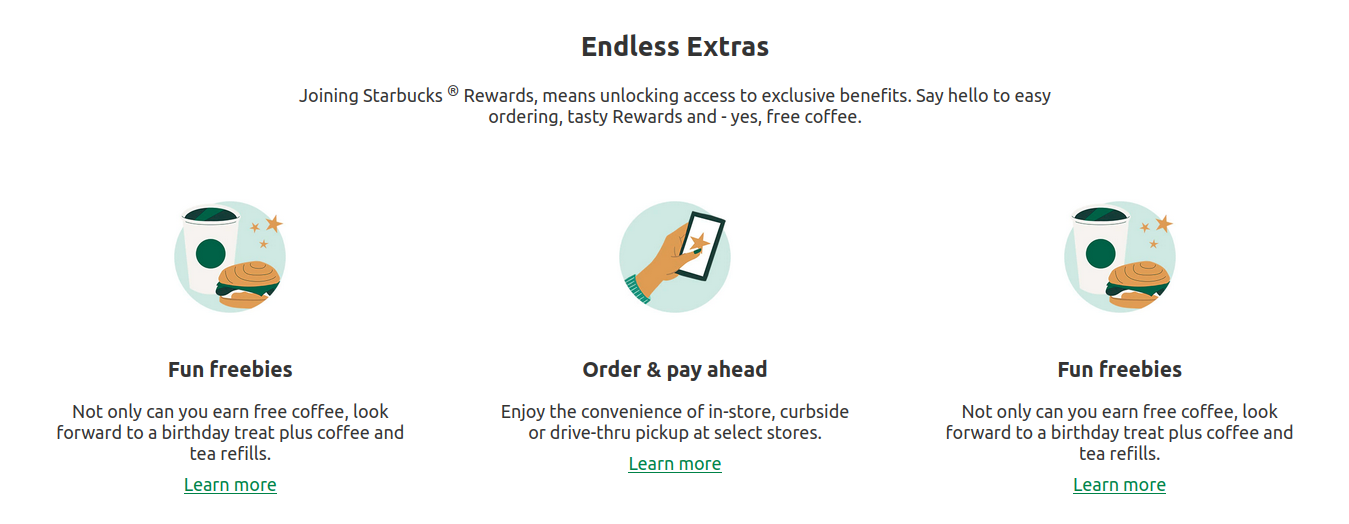
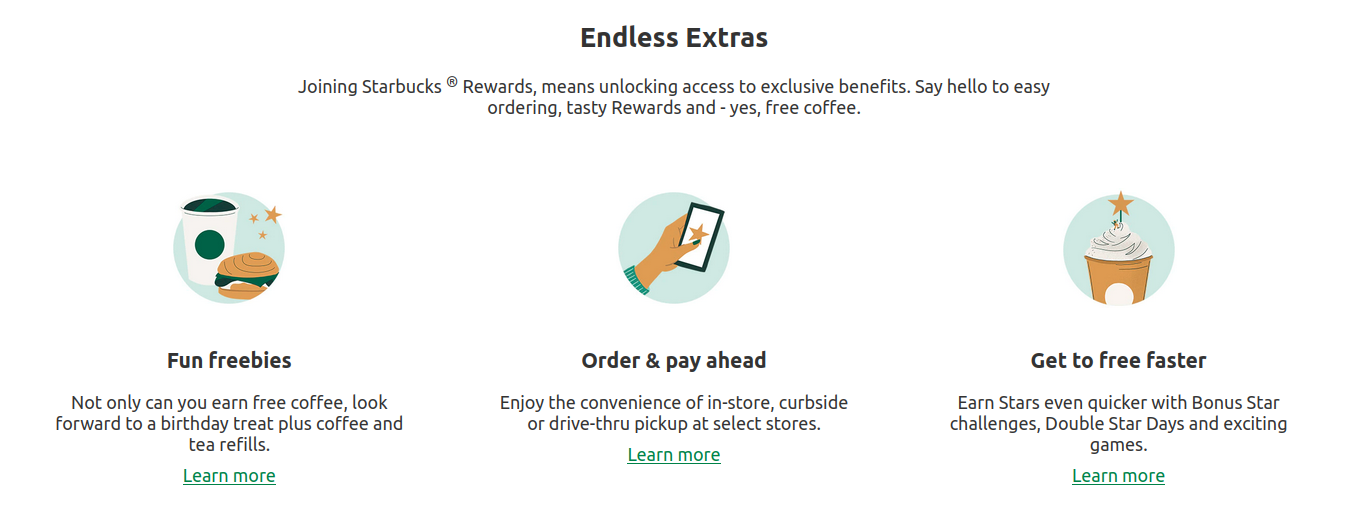
[fix: file] fix UI details in index.html

diff --git a/index.html b/index.html
@@ -163,11 +163,11 @@
           </div>
           <div class="extra-item">
             <div class="extra-header">
-              <img src="img/1-fun-freebies.png" alt="freebies">
+              <img src="img/3-get-to-free-faster.png" alt="faster">
             </div>
             <div class="extra-body">
-              <h3>Fun freebies</h3>
-              <p>Not only can you earn free coffee, look forward to a birthday treat plus coffee and tea refills.</p>
+              <h3>Get to free faster</h3>
+              <p>Earn Stars even quicker with Bonus Star challenges, Double Star Days and exciting games.</p>
               <a class="link-star" href="#">Learn more</a>
             </div>
           </div>
